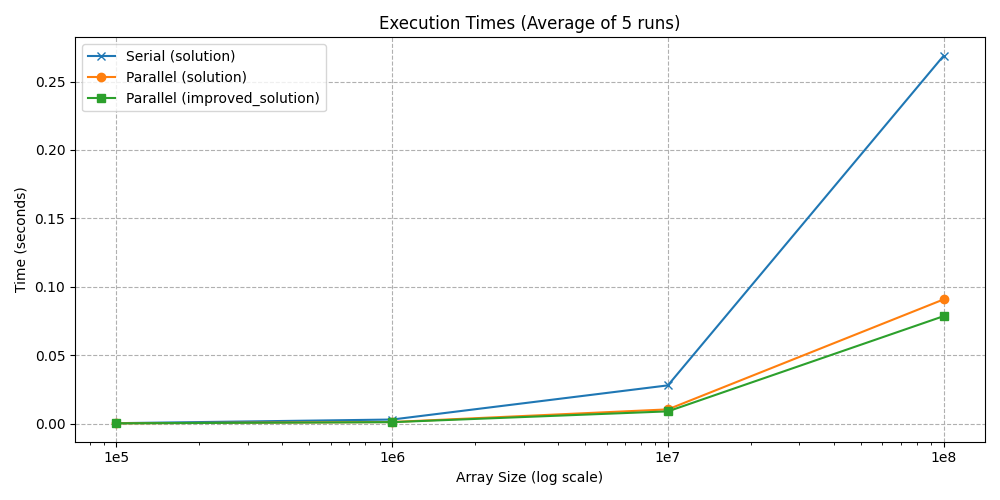
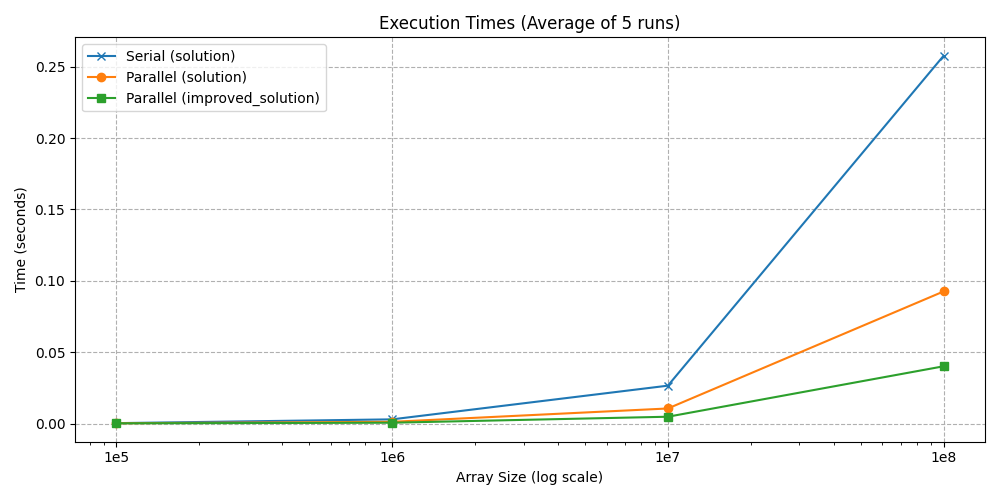
Optimized 1.3 TOO much

diff --git a/Assignment-1/Exercise-3/improved_solution.c b/Assignment-1/Exercise-3/improved_solution.c
@@ -4,38 +4,45 @@
 #include <time.h>
 #include <stdlib.h>
 #include <sys/time.h>
+#include "../Shared/my_rand.h"
+#define MATCHES_ZERO(a) \
+    ((a)[0]->info_array == array_zeroes[0]&& \
+     (a)[1]->info_array == array_zeroes[1] && \
+     (a)[2]->info_array == array_zeroes[2] && \
+     (a)[3]->info_array == array_zeroes[3])
+
 typedef struct array_stats_s{
     long long int info_array;
-    char padding[56];
-}array_stats_s;
-array_stats_s* array_stats; 
-array_stats_s* array_stats_serial; 
+}array_stats_s __attribute__((aligned(64)));
+array_stats_s** array_stats; 
+array_stats_s** array_stats_serial; 
 int** arrays;
+int array_zeroes[4] = {0, 0, 0, 0};
 long size;
 void *Count_Non_Zero(void* rank){
     long my_rank = (long) rank;
+    array_stats_s* stat = array_stats[my_rank];
+    int* array = arrays[my_rank];
     for(long i = 0; i < size; i++){
-        if(arrays[my_rank][i] != 0){
-            array_stats[my_rank].info_array++;
-        }
+        stat->info_array += (array[i] != 0);
     }
     return NULL;
 }
 
 void Count_Non_Zero_Serial(){
+    int* array0 = arrays[0];
+    int* array1 = arrays[1];
+    int* array2 = arrays[2];
+    int* array3 = arrays[3];
+    array_stats_s* stat0 = array_stats_serial[0];
+    array_stats_s* stat1 = array_stats_serial[1];
+    array_stats_s* stat2 = array_stats_serial[2];
+    array_stats_s* stat3 = array_stats_serial[3];
     for(int i = 0; i< size; i++){
-        if(arrays[0][i] != 0){
-            array_stats_serial[0].info_array++;
-        }
-        if(arrays[1][i] != 0){
-            array_stats_serial[1].info_array++;
-        }
-        if(arrays[2][i] != 0){
-            array_stats_serial[2].info_array++;
-        }
-        if(arrays[3][i] != 0){
-            array_stats_serial[3].info_array++;
-        }
+        stat0->info_array += (array0[i] != 0);
+        stat1->info_array += (array1[i] != 0);
+        stat2->info_array += (array2[i] != 0);
+        stat3->info_array += (array3[i] != 0);
     }
 }
 
@@ -54,18 +61,43 @@ int main(int argc, char* argv[]){
     pthread_t* thread_handles;
     gettimeofday(&start, NULL);
     thread_handles = malloc(4 * sizeof(pthread_t));
-    srand((unsigned) time(NULL));
     arrays = malloc(4 * sizeof(int*));
-    array_stats = malloc(4 * sizeof(array_stats_s));
-    array_stats_serial = malloc(4 * sizeof(array_stats_s));
-    for(int i = 0; i < 4; i++){
+    array_stats = malloc(4 * sizeof(array_stats_s*));
+    array_stats_serial = malloc(4 * sizeof(array_stats_s*));
+    
+    for (int i = 0; i < 4; i++) {
         arrays[i] = malloc(size * sizeof(int));
-        array_stats[i].info_array = 0;
-        array_stats_serial[i].info_array = 0;
-        for(int j = 0; j < size ; j++){
-            arrays[i][j] = rand() % 10;
-        }
+        array_stats[i] = malloc(sizeof(array_stats_s));
+        array_stats_serial[i] = malloc(sizeof(array_stats_s));
+        array_stats[i]->info_array = 0;
+        array_stats_serial[i]->info_array = 0;
     }
+    unsigned int seed = time(NULL);
+    //Avoid dereferncing pointer
+    int *a0 = arrays[0];
+    int *a1 = arrays[1];
+    int *a2 = arrays[2];
+    int *a3 = arrays[3];
+    for(int j = 0; j < size ; j++){
+        //Use rand only once to reduce function call overhead
+        unsigned r = my_rand(&seed);
+        int v0 =  r        % 10;
+        int v1 = (r >> 8)  % 10;
+        int v2 = (r >> 16) % 10;
+        int v3 = (r >> 24) % 10;
+
+        a0[j] = v0;
+        a1[j] = v1;
+        a2[j] = v2;
+        a3[j] = v3;
+
+        // Branchless zero detection
+        array_zeroes[0] += (v0 != 0);
+        array_zeroes[1] += (v1 != 0);
+        array_zeroes[2] += (v2 != 0);
+        array_zeroes[3] += (v3 != 0);
+    }
+    
     gettimeofday(&end,NULL);
     elapsed = (end.tv_sec - start.tv_sec) + (end.tv_usec - start.tv_usec) / 1e6;
     printf("Initializing structs needed took: %f seconds\n", elapsed);
@@ -84,10 +116,7 @@ int main(int argc, char* argv[]){
     gettimeofday(&end,NULL);
     elapsed = (end.tv_sec - start.tv_sec) + (end.tv_usec - start.tv_usec) / 1e6;
     printf("Serial execution for array size of %ld took: %f seconds\n",size, elapsed);
-    if( array_stats[0].info_array == array_stats_serial[0].info_array &&
-        array_stats[1].info_array == array_stats_serial[1].info_array &&
-        array_stats[2].info_array == array_stats_serial[2].info_array &&
-        array_stats[3].info_array == array_stats_serial[3].info_array){
+    if( MATCHES_ZERO(array_stats) && MATCHES_ZERO(array_stats_serial)){
             printf("Results are correct!\n");
         }
     else{

diff --git a/Assignment-1/Exercise-3/solution.c b/Assignment-1/Exercise-3/solution.c
@@ -4,6 +4,7 @@
 #include <time.h>
 #include <stdlib.h>
 #include <sys/time.h>
+#include "../Shared/my_rand.h"
 //Define macro to make code a bit more clean
 #define MATCHES_ZERO(a) \
     ((a).info_array_0 == array_zeroes[0]&& \
@@ -20,38 +21,32 @@ struct array_stats_s {
 
 int** arrays;
 long size;
-int array_zeroes[4];
+int array_zeroes[4] = {0,0,0,0};
 void *Count_Non_Zero(void* rank){
     long my_rank = (long) rank;
-    
-        
+    int* array0 = arrays[0];
+    int* array1 = arrays[1];
+    int* array2 = arrays[2];
+    int* array3 = arrays[3];
         switch(my_rank){
             case 0:
                 for(int i = 0; i < size; i++){
-                    if(arrays[0][i] != 0){
-                        array_stats.info_array_0++;
-                    }
+                    array_stats.info_array_0 += (array0[i] != 0);
                 }
                 break;
             case 1:
                 for(int i = 0; i < size; i++){
-                    if(arrays[1][i] != 0){
-                        array_stats.info_array_1++;
-                    }
+                    array_stats.info_array_1 += (array1[i] != 0); 
                 }
                 break;
             case 2:
                 for(int i = 0; i < size; i++){
-                    if(arrays[2][i] != 0){
-                        array_stats.info_array_2++;
-                    }
+                    array_stats.info_array_2 += (array2[i] != 0);
                 }
                 break;
             case 3:
                 for(int i = 0; i < size; i++){
-                    if(arrays[3][i] != 0){
-                        array_stats.info_array_3++;
-                    }
+                    array_stats.info_array_3 += (array3[i] != 0);
                 }
                 break;      
             }
@@ -62,19 +57,16 @@ void *Count_Non_Zero(void* rank){
 }
 
 void Count_Non_Zero_Serial(){
+    int* array0 = arrays[0];
+    int* array1 = arrays[1];
+    int* array2 = arrays[2];
+    int* array3 = arrays[3];
+
     for(int i = 0; i< size; i++){
-        if(arrays[0][i] != 0){
-            array_stats_serial.info_array_0++;
-        }
-        if(arrays[1][i] != 0){
-            array_stats_serial.info_array_1++;
-        }
-        if(arrays[2][i] != 0){
-            array_stats_serial.info_array_2++;
-        }
-        if(arrays[3][i] != 0){
-            array_stats_serial.info_array_3++;
-        }
+        array_stats_serial.info_array_0 += (array0[i] != 0);
+        array_stats_serial.info_array_1 += (array1[i] != 0);
+        array_stats_serial.info_array_2 += (array2[i] != 0);
+        array_stats_serial.info_array_3 += (array3[i] != 0);
     }
 }
 
@@ -93,22 +85,42 @@ int main(int argc, char* argv[]){
     pthread_t* thread_handles;
     gettimeofday(&start, NULL);
     thread_handles = malloc(4 * sizeof(pthread_t));
+    arrays = malloc(4*sizeof(int*));
+    for (int i = 0; i < 4; i++) {
+        arrays[i] = malloc(size * sizeof(int));
+    }
     array_stats.info_array_0 = 0;
     array_stats.info_array_1 = 0;
     array_stats.info_array_2 = 0;
     array_stats.info_array_3 = 0;
-    srand((unsigned) time(NULL));
-    arrays = malloc(4 * sizeof(int*));
-    int value;
-    for(int i = 0; i < 4; i++){
-        arrays[i] = malloc(size * sizeof(int));
-        for(int j = 0; j < size ; j++){
-            value = rand() % 10;
-            arrays[i][j] = value;
-            if(value == 0){
-                array_zeroes[i]++;
-            }
-        }
+    array_stats_serial.info_array_0 = 0;
+    array_stats_serial.info_array_1 = 0;
+    array_stats_serial.info_array_2 = 0;
+    array_stats_serial.info_array_3 = 0;
+    unsigned int seed = time(NULL);
+    //Avoid dereferncing pointer
+    int *a0 = arrays[0];
+    int *a1 = arrays[1];
+    int *a2 = arrays[2];
+    int *a3 = arrays[3];
+    for(int j = 0; j < size ; j++){
+        //Use rand only once to reduce function call overhead
+        unsigned r = my_rand(&seed);
+        int v0 =  r        % 10;
+        int v1 = (r >> 8)  % 10;
+        int v2 = (r >> 16) % 10;
+        int v3 = (r >> 24) % 10;
+
+        a0[j] = v0;
+        a1[j] = v1;
+        a2[j] = v2;
+        a3[j] = v3;
+
+        // Branchless zero detection
+        array_zeroes[0] += (v0 != 0);
+        array_zeroes[1] += (v1 != 0);
+        array_zeroes[2] += (v2 != 0);
+        array_zeroes[3] += (v3 != 0);
     }
     gettimeofday(&end,NULL);
     elapsed = (end.tv_sec - start.tv_sec) + (end.tv_usec - start.tv_usec) / 1e6;
